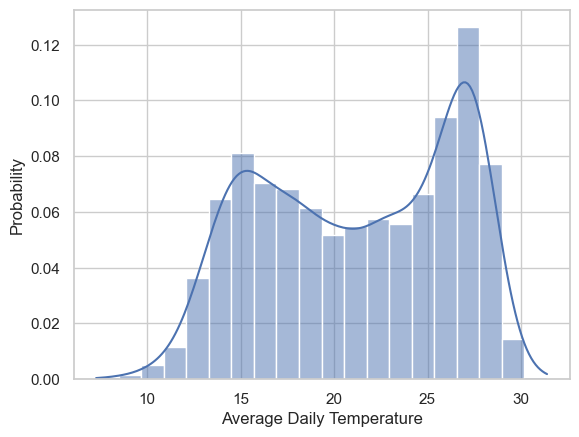
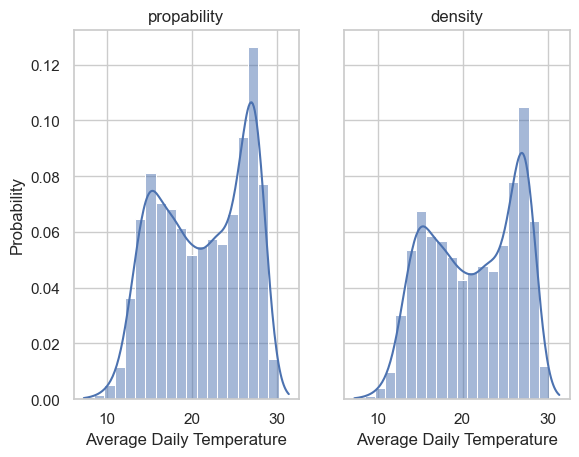
bins

diff --git a/docs/tirgul/tirgul_2/tirgul_2.html b/docs/tirgul/tirgul_2/tirgul_2.html
@@ -702,19 +702,24 @@ See the caveats in the documentation: https://pandas.pydata.org/pandas-docs/stab
 </div>
 </div>
 </div>
-<div id="cell-24" class="cell" data-execution_count="21">
+<div id="cell-24" class="cell" data-execution_count="36">
 <div class="sourceCode cell-code" id="cb30"><pre class="sourceCode numberSource python number-lines code-with-copy"><code class="sourceCode python"><span id="cb30-1"><a href="#cb30-1"></a><span class="co"># play around with the bin size for the histogram -- try more bins</span></span>
-<span id="cb30-2"><a href="#cb30-2"></a>ax <span class="op">=</span> sns.histplot(x<span class="op">=</span>TA_temp.AvgTemp_C, bins<span class="op">=</span><span class="dv">100</span>, ax<span class="op">=</span>ax)</span>
-<span id="cb30-3"><a href="#cb30-3"></a>ax.<span class="bu">set</span>(xlabel<span class="op">=</span><span class="st">'Average Daily Temperature'</span>)</span></code><button title="Copy to Clipboard" class="code-copy-button"><i class="bi"></i></button></pre></div>
-<div class="cell-output cell-output-display" data-execution_count="21">
-<pre><code>[Text(0.5, 25.078125, 'Average Daily Temperature')]</code></pre>
+<span id="cb30-2"><a href="#cb30-2"></a>fig, ax <span class="op">=</span> plt.subplots()</span>
+<span id="cb30-3"><a href="#cb30-3"></a>sns.histplot(x<span class="op">=</span>TA_temp[<span class="st">'AvgTemp_C'</span>], bins<span class="op">=</span><span class="dv">100</span>, ax<span class="op">=</span>ax)</span>
+<span id="cb30-4"><a href="#cb30-4"></a>ax.<span class="bu">set</span>(xlabel<span class="op">=</span><span class="st">'Average Daily Temperature'</span>)</span></code><button title="Copy to Clipboard" class="code-copy-button"><i class="bi"></i></button></pre></div>
+<div class="cell-output cell-output-display">
+<div>
+<figure class="figure">
+<p><img src="tirgul_2_files/figure-html/cell-22-output-1.png" class="img-fluid figure-img"></p>
+</figure>
+</div>
 </div>
 </div>
 <div id="cell-25" class="cell" data-execution_count="22">
-<div class="sourceCode cell-code" id="cb32"><pre class="sourceCode numberSource python number-lines code-with-copy"><code class="sourceCode python"><span id="cb32-1"><a href="#cb32-1"></a><span class="co"># now fewer bins</span></span>
-<span id="cb32-2"><a href="#cb32-2"></a>fig, ax <span class="op">=</span> plt.subplots()</span>
-<span id="cb32-3"><a href="#cb32-3"></a>sns.histplot(x<span class="op">=</span>TA_temp.AvgTemp_C, bins<span class="op">=</span><span class="dv">10</span>, ax<span class="op">=</span>ax)</span>
-<span id="cb32-4"><a href="#cb32-4"></a>ax.<span class="bu">set</span>(xlabel<span class="op">=</span><span class="st">'Average Daily Temperature'</span>)</span></code><button title="Copy to Clipboard" class="code-copy-button"><i class="bi"></i></button></pre></div>
+<div class="sourceCode cell-code" id="cb31"><pre class="sourceCode numberSource python number-lines code-with-copy"><code class="sourceCode python"><span id="cb31-1"><a href="#cb31-1"></a><span class="co"># now fewer bins</span></span>
+<span id="cb31-2"><a href="#cb31-2"></a>fig, ax <span class="op">=</span> plt.subplots()</span>
+<span id="cb31-3"><a href="#cb31-3"></a>sns.histplot(x<span class="op">=</span>TA_temp.AvgTemp_C, bins<span class="op">=</span><span class="dv">10</span>, ax<span class="op">=</span>ax)</span>
+<span id="cb31-4"><a href="#cb31-4"></a>ax.<span class="bu">set</span>(xlabel<span class="op">=</span><span class="st">'Average Daily Temperature'</span>)</span></code><button title="Copy to Clipboard" class="code-copy-button"><i class="bi"></i></button></pre></div>
 <div class="cell-output cell-output-display">
 <div>
 <figure class="figure">
@@ -724,10 +729,10 @@ See the caveats in the documentation: https://pandas.pydata.org/pandas-docs/stab
 </div>
 </div>
 <div id="cell-26" class="cell" data-execution_count="23">
-<div class="sourceCode cell-code" id="cb33"><pre class="sourceCode numberSource python number-lines code-with-copy"><code class="sourceCode python"><span id="cb33-1"><a href="#cb33-1"></a><span class="co"># add kernel density estimator</span></span>
-<span id="cb33-2"><a href="#cb33-2"></a>fig, ax <span class="op">=</span> plt.subplots()</span>
-<span id="cb33-3"><a href="#cb33-3"></a>sns.histplot(x<span class="op">=</span>TA_temp.AvgTemp_C, bins<span class="op">=</span><span class="dv">20</span>, kde <span class="op">=</span> <span class="va">True</span>, ax<span class="op">=</span>ax)</span>
-<span id="cb33-4"><a href="#cb33-4"></a>ax.<span class="bu">set</span>(xlabel<span class="op">=</span><span class="st">'Average Daily Temperature'</span>)</span></code><button title="Copy to Clipboard" class="code-copy-button"><i class="bi"></i></button></pre></div>
+<div class="sourceCode cell-code" id="cb32"><pre class="sourceCode numberSource python number-lines code-with-copy"><code class="sourceCode python"><span id="cb32-1"><a href="#cb32-1"></a><span class="co"># add kernel density estimator</span></span>
+<span id="cb32-2"><a href="#cb32-2"></a>fig, ax <span class="op">=</span> plt.subplots()</span>
+<span id="cb32-3"><a href="#cb32-3"></a>sns.histplot(x<span class="op">=</span>TA_temp.AvgTemp_C, bins<span class="op">=</span><span class="dv">20</span>, kde <span class="op">=</span> <span class="va">True</span>, ax<span class="op">=</span>ax)</span>
+<span id="cb32-4"><a href="#cb32-4"></a>ax.<span class="bu">set</span>(xlabel<span class="op">=</span><span class="st">'Average Daily Temperature'</span>)</span></code><button title="Copy to Clipboard" class="code-copy-button"><i class="bi"></i></button></pre></div>
 <div class="cell-output cell-output-display">
 <div>
 <figure class="figure">
@@ -737,10 +742,10 @@ See the caveats in the documentation: https://pandas.pydata.org/pandas-docs/stab
 </div>
 </div>
 <div id="cell-27" class="cell" data-execution_count="24">
-<div class="sourceCode cell-code" id="cb34"><pre class="sourceCode numberSource python number-lines code-with-copy"><code class="sourceCode python"><span id="cb34-1"><a href="#cb34-1"></a><span class="co"># how can we normalize the histogram data?</span></span>
-<span id="cb34-2"><a href="#cb34-2"></a>fig, ax <span class="op">=</span> plt.subplots()</span>
-<span id="cb34-3"><a href="#cb34-3"></a>sns.histplot(x<span class="op">=</span>TA_temp[<span class="st">'AvgTemp_C'</span>], bins<span class="op">=</span><span class="dv">20</span>, kde <span class="op">=</span> <span class="va">True</span>, stat <span class="op">=</span> <span class="st">"density"</span>, ax<span class="op">=</span>ax)</span>
-<span id="cb34-4"><a href="#cb34-4"></a>ax.<span class="bu">set</span>(xlabel<span class="op">=</span><span class="st">'Average Daily Temperature'</span>)</span></code><button title="Copy to Clipboard" class="code-copy-button"><i class="bi"></i></button></pre></div>
+<div class="sourceCode cell-code" id="cb33"><pre class="sourceCode numberSource python number-lines code-with-copy"><code class="sourceCode python"><span id="cb33-1"><a href="#cb33-1"></a><span class="co"># how can we normalize the histogram data?</span></span>
+<span id="cb33-2"><a href="#cb33-2"></a>fig, ax <span class="op">=</span> plt.subplots()</span>
+<span id="cb33-3"><a href="#cb33-3"></a>sns.histplot(x<span class="op">=</span>TA_temp[<span class="st">'AvgTemp_C'</span>], bins<span class="op">=</span><span class="dv">20</span>, kde<span class="op">=</span><span class="va">True</span>, stat<span class="op">=</span><span class="st">"density"</span>, ax<span class="op">=</span>ax)</span>
+<span id="cb33-4"><a href="#cb33-4"></a>ax.<span class="bu">set</span>(xlabel<span class="op">=</span><span class="st">'Average Daily Temperature'</span>)</span></code><button title="Copy to Clipboard" class="code-copy-button"><i class="bi"></i></button></pre></div>
 <div class="cell-output cell-output-display">
 <div>
 <figure class="figure">
@@ -749,11 +754,16 @@ See the caveats in the documentation: https://pandas.pydata.org/pandas-docs/stab
 </div>
 </div>
 </div>
-<div id="cell-28" class="cell" data-execution_count="25">
-<div class="sourceCode cell-code" id="cb35"><pre class="sourceCode numberSource python number-lines code-with-copy"><code class="sourceCode python"><span id="cb35-1"><a href="#cb35-1"></a><span class="co"># what's the difference between the "density" stat and "probablity" stat  ---  https://seaborn.pydata.org/generated/seaborn.histplot.html</span></span>
-<span id="cb35-2"><a href="#cb35-2"></a>fig, ax <span class="op">=</span> plt.subplots()</span>
-<span id="cb35-3"><a href="#cb35-3"></a>sns.histplot(x<span class="op">=</span>TA_temp.AvgTemp_C, bins<span class="op">=</span><span class="dv">20</span>, kde<span class="op">=</span><span class="va">True</span>, stat<span class="op">=</span><span class="st">"probability"</span>, ax<span class="op">=</span>ax)</span>
-<span id="cb35-4"><a href="#cb35-4"></a>ax.<span class="bu">set</span>(xlabel<span class="op">=</span><span class="st">'Average Daily Temperature'</span>)</span></code><button title="Copy to Clipboard" class="code-copy-button"><i class="bi"></i></button></pre></div>
+<p>what’s the difference between the “density” stat and “probablity” stat? read the <a href="https://seaborn.pydata.org/generated/seaborn.histplot.html">documentation</a>.</p>
+<div id="cell-29" class="cell" data-execution_count="26">
+<div class="sourceCode cell-code" id="cb34"><pre class="sourceCode numberSource python number-lines code-with-copy"><code class="sourceCode python"><span id="cb34-1"><a href="#cb34-1"></a><span class="co"># plotting 2 side by side</span></span>
+<span id="cb34-2"><a href="#cb34-2"></a>fig, ax <span class="op">=</span> plt.subplots(<span class="dv">1</span>,<span class="dv">2</span>, sharey<span class="op">=</span><span class="va">True</span>)</span>
+<span id="cb34-3"><a href="#cb34-3"></a></span>
+<span id="cb34-4"><a href="#cb34-4"></a>sns.histplot(x<span class="op">=</span>TA_temp.AvgTemp_C, bins<span class="op">=</span><span class="dv">20</span>, kde<span class="op">=</span><span class="va">True</span>, stat<span class="op">=</span><span class="st">"probability"</span>, ax<span class="op">=</span>ax[<span class="dv">0</span>])</span>
+<span id="cb34-5"><a href="#cb34-5"></a>ax[<span class="dv">0</span>].<span class="bu">set</span>(title<span class="op">=</span><span class="st">'propability'</span>, xlabel<span class="op">=</span><span class="st">'Average Daily Temperature'</span>)</span>
+<span id="cb34-6"><a href="#cb34-6"></a></span>
+<span id="cb34-7"><a href="#cb34-7"></a>sns.histplot(x<span class="op">=</span>TA_temp.AvgTemp_C, bins<span class="op">=</span><span class="dv">20</span>, kde<span class="op">=</span><span class="va">True</span>, stat<span class="op">=</span><span class="st">"density"</span>, ax<span class="op">=</span>ax[<span class="dv">1</span>])</span>
+<span id="cb34-8"><a href="#cb34-8"></a>ax[<span class="dv">1</span>].<span class="bu">set</span>(title<span class="op">=</span><span class="st">'density'</span>, xlabel<span class="op">=</span><span class="st">'Average Daily Temperature'</span>)</span></code><button title="Copy to Clipboard" class="code-copy-button"><i class="bi"></i></button></pre></div>
 <div class="cell-output cell-output-display">
 <div>
 <figure class="figure">
@@ -762,46 +772,28 @@ See the caveats in the documentation: https://pandas.pydata.org/pandas-docs/stab
 </div>
 </div>
 </div>
-<p>what’s the difference between the “density” stat and “probablity” stat? read the <a href="https://seaborn.pydata.org/generated/seaborn.histplot.html">documentation</a>.</p>
-<div id="cell-30" class="cell" data-execution_count="26">
-<div class="sourceCode cell-code" id="cb36"><pre class="sourceCode numberSource python number-lines code-with-copy"><code class="sourceCode python"><span id="cb36-1"><a href="#cb36-1"></a><span class="co"># plotting 2 side by side</span></span>
-<span id="cb36-2"><a href="#cb36-2"></a>fig, ax <span class="op">=</span> plt.subplots(<span class="dv">1</span>,<span class="dv">2</span>, sharey<span class="op">=</span><span class="va">True</span>)</span>
-<span id="cb36-3"><a href="#cb36-3"></a></span>
-<span id="cb36-4"><a href="#cb36-4"></a>sns.histplot(x<span class="op">=</span>TA_temp.AvgTemp_C, bins<span class="op">=</span><span class="dv">20</span>, kde<span class="op">=</span><span class="va">True</span>, stat<span class="op">=</span><span class="st">"probability"</span>, ax<span class="op">=</span>ax[<span class="dv">0</span>])</span>
-<span id="cb36-5"><a href="#cb36-5"></a>ax[<span class="dv">0</span>].<span class="bu">set</span>(title<span class="op">=</span><span class="st">'propability'</span>, xlabel<span class="op">=</span><span class="st">'Average Daily Temperature'</span>)</span>
-<span id="cb36-6"><a href="#cb36-6"></a></span>
-<span id="cb36-7"><a href="#cb36-7"></a>sns.histplot(x<span class="op">=</span>TA_temp.AvgTemp_C, bins<span class="op">=</span><span class="dv">20</span>, kde<span class="op">=</span><span class="va">True</span>, stat<span class="op">=</span><span class="st">"density"</span>, ax<span class="op">=</span>ax[<span class="dv">1</span>])</span>
-<span id="cb36-8"><a href="#cb36-8"></a>ax[<span class="dv">1</span>].<span class="bu">set</span>(title<span class="op">=</span><span class="st">'density'</span>, xlabel<span class="op">=</span><span class="st">'Average Daily Temperature'</span>)</span></code><button title="Copy to Clipboard" class="code-copy-button"><i class="bi"></i></button></pre></div>
-<div class="cell-output cell-output-display">
-<div>
-<figure class="figure">
-<p><img src="tirgul_2_files/figure-html/cell-27-output-1.png" class="img-fluid figure-img"></p>
-</figure>
-</div>
-</div>
-</div>
-<div id="cell-31" class="cell" data-execution_count="27">
-<div class="sourceCode cell-code" id="cb37"><pre class="sourceCode numberSource python number-lines code-with-copy"><code class="sourceCode python"><span id="cb37-1"><a href="#cb37-1"></a><span class="co"># add the mean to the plot</span></span>
-<span id="cb37-2"><a href="#cb37-2"></a>mean_temp <span class="op">=</span> TA_temp[<span class="st">'AvgTemp_C'</span>].mean() </span>
-<span id="cb37-3"><a href="#cb37-3"></a></span>
-<span id="cb37-4"><a href="#cb37-4"></a>fig, ax <span class="op">=</span> plt.subplots()</span>
-<span id="cb37-5"><a href="#cb37-5"></a>sns.histplot(x<span class="op">=</span>TA_temp[<span class="st">'AvgTemp_C'</span>], </span>
-<span id="cb37-6"><a href="#cb37-6"></a>             bins<span class="op">=</span><span class="dv">20</span>,</span>
-<span id="cb37-7"><a href="#cb37-7"></a>             kde<span class="op">=</span><span class="va">True</span>,</span>
-<span id="cb37-8"><a href="#cb37-8"></a>             stat<span class="op">=</span><span class="st">"probability"</span>,</span>
-<span id="cb37-9"><a href="#cb37-9"></a>             ax<span class="op">=</span>ax,</span>
-<span id="cb37-10"><a href="#cb37-10"></a>             )</span>
-<span id="cb37-11"><a href="#cb37-11"></a>ax.<span class="bu">set</span>(xlabel<span class="op">=</span><span class="st">'Average Daily Temperature'</span>)</span>
-<span id="cb37-12"><a href="#cb37-12"></a>ax.axvline(mean_temp, label<span class="op">=</span><span class="st">'mean'</span>, color<span class="op">=</span><span class="st">'r'</span>)</span>
-<span id="cb37-13"><a href="#cb37-13"></a>ax.text(mean_temp,<span class="fl">0.14</span>, <span class="st">'mean'</span>, va<span class="op">=</span><span class="st">'bottom'</span>,</span>
-<span id="cb37-14"><a href="#cb37-14"></a>        ha<span class="op">=</span><span class="st">'center'</span>, fontsize<span class="op">=</span><span class="dv">14</span>, weight<span class="op">=</span><span class="st">'bold'</span>, color<span class="op">=</span><span class="st">'r'</span>) </span></code><button title="Copy to Clipboard" class="code-copy-button"><i class="bi"></i></button></pre></div>
+<div id="cell-30" class="cell" data-execution_count="27">
+<div class="sourceCode cell-code" id="cb35"><pre class="sourceCode numberSource python number-lines code-with-copy"><code class="sourceCode python"><span id="cb35-1"><a href="#cb35-1"></a><span class="co"># add the mean to the plot</span></span>
+<span id="cb35-2"><a href="#cb35-2"></a>mean_temp <span class="op">=</span> TA_temp[<span class="st">'AvgTemp_C'</span>].mean() </span>
+<span id="cb35-3"><a href="#cb35-3"></a></span>
+<span id="cb35-4"><a href="#cb35-4"></a>fig, ax <span class="op">=</span> plt.subplots()</span>
+<span id="cb35-5"><a href="#cb35-5"></a>sns.histplot(x<span class="op">=</span>TA_temp[<span class="st">'AvgTemp_C'</span>], </span>
+<span id="cb35-6"><a href="#cb35-6"></a>             bins<span class="op">=</span><span class="dv">20</span>,</span>
+<span id="cb35-7"><a href="#cb35-7"></a>             kde<span class="op">=</span><span class="va">True</span>,</span>
+<span id="cb35-8"><a href="#cb35-8"></a>             stat<span class="op">=</span><span class="st">"probability"</span>,</span>
+<span id="cb35-9"><a href="#cb35-9"></a>             ax<span class="op">=</span>ax,</span>
+<span id="cb35-10"><a href="#cb35-10"></a>             )</span>
+<span id="cb35-11"><a href="#cb35-11"></a>ax.<span class="bu">set</span>(xlabel<span class="op">=</span><span class="st">'Average Daily Temperature'</span>)</span>
+<span id="cb35-12"><a href="#cb35-12"></a>ax.axvline(mean_temp, label<span class="op">=</span><span class="st">'mean'</span>, color<span class="op">=</span><span class="st">'r'</span>)</span>
+<span id="cb35-13"><a href="#cb35-13"></a>ax.text(mean_temp,<span class="fl">0.14</span>, <span class="st">'mean'</span>, va<span class="op">=</span><span class="st">'bottom'</span>,</span>
+<span id="cb35-14"><a href="#cb35-14"></a>        ha<span class="op">=</span><span class="st">'center'</span>, fontsize<span class="op">=</span><span class="dv">14</span>, weight<span class="op">=</span><span class="st">'bold'</span>, color<span class="op">=</span><span class="st">'r'</span>) </span></code><button title="Copy to Clipboard" class="code-copy-button"><i class="bi"></i></button></pre></div>
 <div class="cell-output cell-output-display" data-execution_count="27">
 <pre><code>Text(21.249324753733717, 0.14, 'mean')</code></pre>
 </div>
 <div class="cell-output cell-output-display">
 <div>
 <figure class="figure">
-<p><img src="tirgul_2_files/figure-html/cell-28-output-2.png" class="img-fluid figure-img"></p>
+<p><img src="tirgul_2_files/figure-html/cell-27-output-2.png" class="img-fluid figure-img"></p>
 </figure>
 </div>
 </div>
@@ -813,28 +805,28 @@ See the caveats in the documentation: https://pandas.pydata.org/pandas-docs/stab
 <li>add the mode</li>
 <li>add the median</li>
 </ul>
-<div id="cell-33" class="cell" data-execution_count="28">
-<div class="sourceCode cell-code" id="cb39"><pre class="sourceCode numberSource python number-lines code-with-copy"><code class="sourceCode python"><span id="cb39-1"><a href="#cb39-1"></a><span class="co"># make a histogram of the data</span></span>
-<span id="cb39-2"><a href="#cb39-2"></a>fig, ax <span class="op">=</span> plt.subplots()</span>
-<span id="cb39-3"><a href="#cb39-3"></a>sns.histplot(x<span class="op">=</span>temp_df[<span class="st">'AvgTemp_C'</span>], hue<span class="op">=</span>temp_df[<span class="st">'City'</span>], ax<span class="op">=</span>ax)</span>
-<span id="cb39-4"><a href="#cb39-4"></a>ax.<span class="bu">set</span>(xlabel<span class="op">=</span><span class="st">'Average Daily Temperature'</span>)</span></code><button title="Copy to Clipboard" class="code-copy-button"><i class="bi"></i></button></pre></div>
+<div id="cell-32" class="cell" data-execution_count="28">
+<div class="sourceCode cell-code" id="cb37"><pre class="sourceCode numberSource python number-lines code-with-copy"><code class="sourceCode python"><span id="cb37-1"><a href="#cb37-1"></a><span class="co"># make a histogram of the data</span></span>
+<span id="cb37-2"><a href="#cb37-2"></a>fig, ax <span class="op">=</span> plt.subplots()</span>
+<span id="cb37-3"><a href="#cb37-3"></a>sns.histplot(x<span class="op">=</span>temp_df[<span class="st">'AvgTemp_C'</span>], hue<span class="op">=</span>temp_df[<span class="st">'City'</span>], ax<span class="op">=</span>ax)</span>
+<span id="cb37-4"><a href="#cb37-4"></a>ax.<span class="bu">set</span>(xlabel<span class="op">=</span><span class="st">'Average Daily Temperature'</span>)</span></code><button title="Copy to Clipboard" class="code-copy-button"><i class="bi"></i></button></pre></div>
 <div class="cell-output cell-output-display">
 <div>
 <figure class="figure">
-<p><img src="tirgul_2_files/figure-html/cell-29-output-1.png" class="img-fluid figure-img"></p>
+<p><img src="tirgul_2_files/figure-html/cell-28-output-1.png" class="img-fluid figure-img"></p>
 </figure>
 </div>
 </div>
 </div>
-<div id="cell-34" class="cell" data-execution_count="29">
-<div class="sourceCode cell-code" id="cb40"><pre class="sourceCode numberSource python number-lines code-with-copy"><code class="sourceCode python"><span id="cb40-1"><a href="#cb40-1"></a><span class="co"># another type of histogram</span></span>
-<span id="cb40-2"><a href="#cb40-2"></a>fig, ax <span class="op">=</span> plt.subplots()</span>
-<span id="cb40-3"><a href="#cb40-3"></a>sns.histplot(x<span class="op">=</span>temp_df[<span class="st">'AvgTemp_C'</span>], y<span class="op">=</span>temp_df[<span class="st">'City'</span>], </span>
-<span id="cb40-4"><a href="#cb40-4"></a>             hue<span class="op">=</span>temp_df[<span class="st">'City'</span>], legend<span class="op">=</span><span class="va">False</span>, ax<span class="op">=</span>ax)</span></code><button title="Copy to Clipboard" class="code-copy-button"><i class="bi"></i></button></pre></div>
+<div id="cell-33" class="cell" data-execution_count="29">
+<div class="sourceCode cell-code" id="cb38"><pre class="sourceCode numberSource python number-lines code-with-copy"><code class="sourceCode python"><span id="cb38-1"><a href="#cb38-1"></a><span class="co"># another type of histogram</span></span>
+<span id="cb38-2"><a href="#cb38-2"></a>fig, ax <span class="op">=</span> plt.subplots()</span>
+<span id="cb38-3"><a href="#cb38-3"></a>sns.histplot(x<span class="op">=</span>temp_df[<span class="st">'AvgTemp_C'</span>], y<span class="op">=</span>temp_df[<span class="st">'City'</span>], </span>
+<span id="cb38-4"><a href="#cb38-4"></a>             hue<span class="op">=</span>temp_df[<span class="st">'City'</span>], legend<span class="op">=</span><span class="va">False</span>, ax<span class="op">=</span>ax)</span></code><button title="Copy to Clipboard" class="code-copy-button"><i class="bi"></i></button></pre></div>
 <div class="cell-output cell-output-display">
 <div>
 <figure class="figure">
-<p><img src="tirgul_2_files/figure-html/cell-30-output-1.png" class="img-fluid figure-img"></p>
+<p><img src="tirgul_2_files/figure-html/cell-29-output-1.png" class="img-fluid figure-img"></p>
 </figure>
 </div>
 </div>
@@ -845,27 +837,27 @@ See the caveats in the documentation: https://pandas.pydata.org/pandas-docs/stab
 <p>Sometimes, for reasons that will be clear on the HW, we’ll want to encode our categorical variables so that they are numbers instead.</p>
 <p>There are many ways that we can achive this.</p>
 <p>Here will learn one, for more examples see: https://pbpython.com/categorical-encoding.html</p>
-<div id="cell-36" class="cell" data-execution_count="30">
-<div class="sourceCode cell-code" id="cb41"><pre class="sourceCode numberSource python number-lines code-with-copy"><code class="sourceCode python"><span id="cb41-1"><a href="#cb41-1"></a><span class="co"># what are our cities again?</span></span>
-<span id="cb41-2"><a href="#cb41-2"></a>temp_df[<span class="st">'City'</span>].unique()</span></code><button title="Copy to Clipboard" class="code-copy-button"><i class="bi"></i></button></pre></div>
+<div id="cell-35" class="cell" data-execution_count="30">
+<div class="sourceCode cell-code" id="cb39"><pre class="sourceCode numberSource python number-lines code-with-copy"><code class="sourceCode python"><span id="cb39-1"><a href="#cb39-1"></a><span class="co"># what are our cities again?</span></span>
+<span id="cb39-2"><a href="#cb39-2"></a>temp_df[<span class="st">'City'</span>].unique()</span></code><button title="Copy to Clipboard" class="code-copy-button"><i class="bi"></i></button></pre></div>
 <div class="cell-output cell-output-display" data-execution_count="30">
 <pre><code>array(['Lilongwe', 'Capetown', 'Tel Aviv', 'Amman', 'Beirut', 'Rochester'],
       dtype=object)</code></pre>
 </div>
 </div>
-<div id="cell-37" class="cell" data-execution_count="31">
-<div class="sourceCode cell-code" id="cb43"><pre class="sourceCode numberSource python number-lines code-with-copy"><code class="sourceCode python"><span id="cb43-1"><a href="#cb43-1"></a><span class="co"># dictionary for encoding cities (note: we can encode more than one variable at a time)</span></span>
-<span id="cb43-2"><a href="#cb43-2"></a>cleanup_cities <span class="op">=</span> {<span class="st">"City"</span>: {<span class="st">"Lilongwe"</span>: <span class="dv">1</span>, </span>
-<span id="cb43-3"><a href="#cb43-3"></a>                           <span class="st">"Capetown"</span>: <span class="dv">2</span>,</span>
-<span id="cb43-4"><a href="#cb43-4"></a>                           <span class="st">"Tel Aviv"</span>: <span class="dv">3</span>,</span>
-<span id="cb43-5"><a href="#cb43-5"></a>                           <span class="st">"Amman"</span>: <span class="dv">4</span>,</span>
-<span id="cb43-6"><a href="#cb43-6"></a>                           <span class="st">"Beirut"</span>: <span class="dv">5</span>,</span>
-<span id="cb43-7"><a href="#cb43-7"></a>                           <span class="st">"Rochester"</span>: <span class="dv">6</span>}}</span></code><button title="Copy to Clipboard" class="code-copy-button"><i class="bi"></i></button></pre></div>
+<div id="cell-36" class="cell" data-execution_count="31">
+<div class="sourceCode cell-code" id="cb41"><pre class="sourceCode numberSource python number-lines code-with-copy"><code class="sourceCode python"><span id="cb41-1"><a href="#cb41-1"></a><span class="co"># dictionary for encoding cities (note: we can encode more than one variable at a time)</span></span>
+<span id="cb41-2"><a href="#cb41-2"></a>cleanup_cities <span class="op">=</span> {<span class="st">"City"</span>: {<span class="st">"Lilongwe"</span>: <span class="dv">1</span>, </span>
+<span id="cb41-3"><a href="#cb41-3"></a>                           <span class="st">"Capetown"</span>: <span class="dv">2</span>,</span>
+<span id="cb41-4"><a href="#cb41-4"></a>                           <span class="st">"Tel Aviv"</span>: <span class="dv">3</span>,</span>
+<span id="cb41-5"><a href="#cb41-5"></a>                           <span class="st">"Amman"</span>: <span class="dv">4</span>,</span>
+<span id="cb41-6"><a href="#cb41-6"></a>                           <span class="st">"Beirut"</span>: <span class="dv">5</span>,</span>
+<span id="cb41-7"><a href="#cb41-7"></a>                           <span class="st">"Rochester"</span>: <span class="dv">6</span>}}</span></code><button title="Copy to Clipboard" class="code-copy-button"><i class="bi"></i></button></pre></div>
 </div>
-<div id="cell-38" class="cell" data-execution_count="32">
-<div class="sourceCode cell-code" id="cb44"><pre class="sourceCode numberSource python number-lines code-with-copy"><code class="sourceCode python"><span id="cb44-1"><a href="#cb44-1"></a><span class="co"># new dataframe with encoded values</span></span>
-<span id="cb44-2"><a href="#cb44-2"></a>temp_df_encoded <span class="op">=</span> temp_df.replace(cleanup_cities)</span>
-<span id="cb44-3"><a href="#cb44-3"></a>temp_df_encoded.dtypes</span></code><button title="Copy to Clipboard" class="code-copy-button"><i class="bi"></i></button></pre></div>
+<div id="cell-37" class="cell" data-execution_count="32">
+<div class="sourceCode cell-code" id="cb42"><pre class="sourceCode numberSource python number-lines code-with-copy"><code class="sourceCode python"><span id="cb42-1"><a href="#cb42-1"></a><span class="co"># new dataframe with encoded values</span></span>
+<span id="cb42-2"><a href="#cb42-2"></a>temp_df_encoded <span class="op">=</span> temp_df.replace(cleanup_cities)</span>
+<span id="cb42-3"><a href="#cb42-3"></a>temp_df_encoded.dtypes</span></code><button title="Copy to Clipboard" class="code-copy-button"><i class="bi"></i></button></pre></div>
 <div class="cell-output cell-output-display" data-execution_count="32">
 <pre><code>Country            object
 City                int64
@@ -877,11 +869,11 @@ AvgTemp_C         float64
 dtype: object</code></pre>
 </div>
 </div>
-<div id="cell-39" class="cell" data-execution_count="33">
-<div class="sourceCode cell-code" id="cb46"><pre class="sourceCode numberSource python number-lines code-with-copy"><code class="sourceCode python"><span id="cb46-1"><a href="#cb46-1"></a><span class="co"># option 2 -- use Pandas</span></span>
-<span id="cb46-2"><a href="#cb46-2"></a></span>
-<span id="cb46-3"><a href="#cb46-3"></a><span class="co"># what are our data types?</span></span>
-<span id="cb46-4"><a href="#cb46-4"></a>temp_df.dtypes</span></code><button title="Copy to Clipboard" class="code-copy-button"><i class="bi"></i></button></pre></div>
+<div id="cell-38" class="cell" data-execution_count="33">
+<div class="sourceCode cell-code" id="cb44"><pre class="sourceCode numberSource python number-lines code-with-copy"><code class="sourceCode python"><span id="cb44-1"><a href="#cb44-1"></a><span class="co"># option 2 -- use Pandas</span></span>
+<span id="cb44-2"><a href="#cb44-2"></a></span>
+<span id="cb44-3"><a href="#cb44-3"></a><span class="co"># what are our data types?</span></span>
+<span id="cb44-4"><a href="#cb44-4"></a>temp_df.dtypes</span></code><button title="Copy to Clipboard" class="code-copy-button"><i class="bi"></i></button></pre></div>
 <div class="cell-output cell-output-display" data-execution_count="33">
 <pre><code>Country            object
 City               object
@@ -893,10 +885,10 @@ AvgTemp_C         float64
 dtype: object</code></pre>
 </div>
 </div>
-<div id="cell-40" class="cell" data-execution_count="34">
-<div class="sourceCode cell-code" id="cb48"><pre class="sourceCode numberSource python number-lines code-with-copy"><code class="sourceCode python"><span id="cb48-1"><a href="#cb48-1"></a><span class="co"># assign city to be a categorical variable</span></span>
-<span id="cb48-2"><a href="#cb48-2"></a>temp_df[<span class="st">"City"</span>] <span class="op">=</span> temp_df[<span class="st">"City"</span>].astype(<span class="st">'category'</span>)</span>
-<span id="cb48-3"><a href="#cb48-3"></a>temp_df.dtypes</span></code><button title="Copy to Clipboard" class="code-copy-button"><i class="bi"></i></button></pre></div>
+<div id="cell-39" class="cell" data-execution_count="34">
+<div class="sourceCode cell-code" id="cb46"><pre class="sourceCode numberSource python number-lines code-with-copy"><code class="sourceCode python"><span id="cb46-1"><a href="#cb46-1"></a><span class="co"># assign city to be a categorical variable</span></span>
+<span id="cb46-2"><a href="#cb46-2"></a>temp_df[<span class="st">"City"</span>] <span class="op">=</span> temp_df[<span class="st">"City"</span>].astype(<span class="st">'category'</span>)</span>
+<span id="cb46-3"><a href="#cb46-3"></a>temp_df.dtypes</span></code><button title="Copy to Clipboard" class="code-copy-button"><i class="bi"></i></button></pre></div>
 <div class="cell-output cell-output-stderr">
 <pre><code>/var/folders/wn/2bz1970d2w5182zy7h96yfcc0000gn/T/ipykernel_82655/1724604918.py:2: SettingWithCopyWarning: 
 A value is trying to be set on a copy of a slice from a DataFrame.
@@ -916,10 +908,10 @@ AvgTemp_C          float64
 dtype: object</code></pre>
 </div>
 </div>
-<div id="cell-41" class="cell" data-execution_count="35">
-<div class="sourceCode cell-code" id="cb51"><pre class="sourceCode numberSource python number-lines code-with-copy"><code class="sourceCode python"><span id="cb51-1"><a href="#cb51-1"></a><span class="co"># use codes to encode variable</span></span>
-<span id="cb51-2"><a href="#cb51-2"></a>temp_df[<span class="st">"City_encoded"</span>] <span class="op">=</span> temp_df[<span class="st">"City"</span>].cat.codes</span>
-<span id="cb51-3"><a href="#cb51-3"></a>temp_df.dtypes</span></code><button title="Copy to Clipboard" class="code-copy-button"><i class="bi"></i></button></pre></div>
+<div id="cell-40" class="cell" data-execution_count="35">
+<div class="sourceCode cell-code" id="cb49"><pre class="sourceCode numberSource python number-lines code-with-copy"><code class="sourceCode python"><span id="cb49-1"><a href="#cb49-1"></a><span class="co"># use codes to encode variable</span></span>
+<span id="cb49-2"><a href="#cb49-2"></a>temp_df[<span class="st">"City_encoded"</span>] <span class="op">=</span> temp_df[<span class="st">"City"</span>].cat.codes</span>
+<span id="cb49-3"><a href="#cb49-3"></a>temp_df.dtypes</span></code><button title="Copy to Clipboard" class="code-copy-button"><i class="bi"></i></button></pre></div>
 <div class="cell-output cell-output-stderr">
 <pre><code>/var/folders/wn/2bz1970d2w5182zy7h96yfcc0000gn/T/ipykernel_82655/3917241889.py:2: SettingWithCopyWarning: 
 A value is trying to be set on a copy of a slice from a DataFrame.
